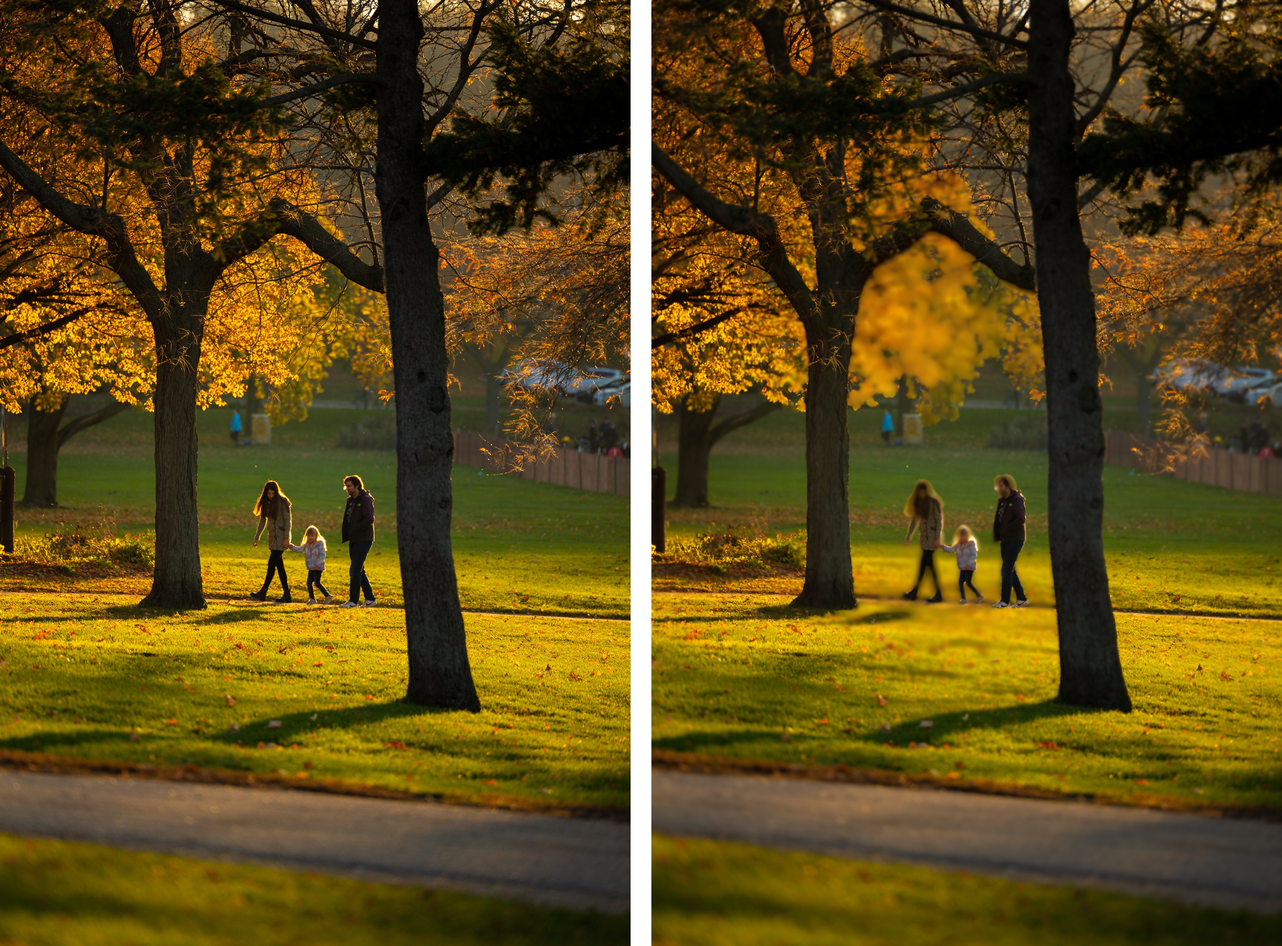
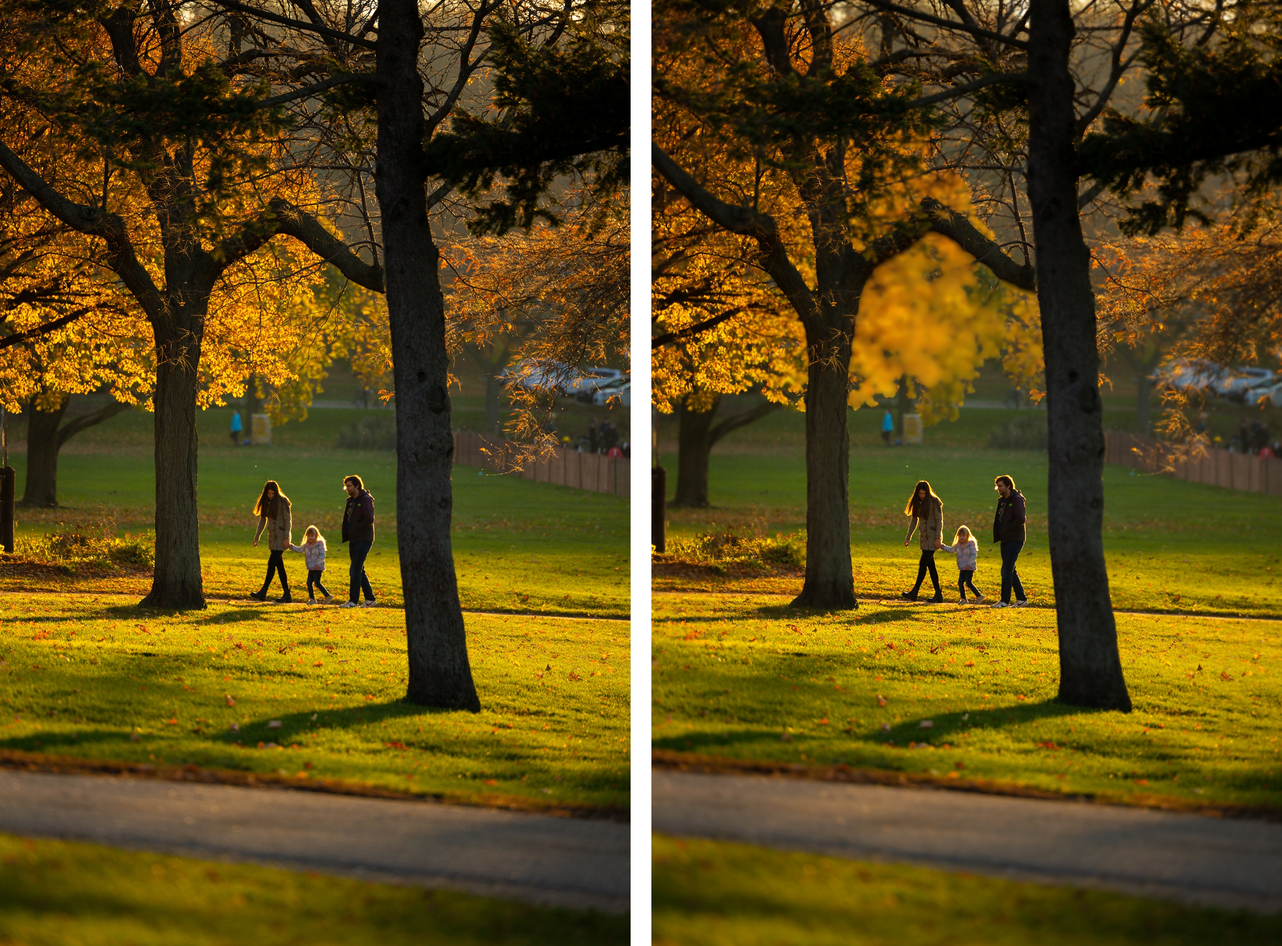
auto subject protection

Changed region(s): [[0.6198, 0.5, 0.8368, 0.75], [0.7748, 0.5, 0.8058, 0.5312]]

diff --git a/CS766_Project/CS766_AutoPhoto_Webpage/index.html b/CS766_Project/CS766_AutoPhoto_Webpage/index.html
@@ -443,7 +443,7 @@
             <div class="hero-meta">
                 <div class="meta-card">
                     <strong>Team</strong>
-                    Jiapeng Zeng, Heyan Zhang, Zichen Liu
+                    Jiapeng Zeng, Heyan Zhang, Lanxi Zhang
                 </div>
                 <div class="meta-card">
                     <strong>Course</strong>

diff --git a/CS766_Project/CS766_AutoPhoto_Core/augmentation_utils.py b/CS766_Project/CS766_AutoPhoto_Core/augmentation_utils.py
@@ -183,6 +183,23 @@ def crop_array(values, crop_box):
     return values[y:y + h, x:x + w, ...]
 
 
+def _unsharp_mask(image, sigma=1.2, amount=0.45):
+    base = cv2.GaussianBlur(image, (0, 0), sigma)
+    return np.clip(image + amount * (image - base), 0.0, 1.0)
+
+
+def preserve_subject_focus(original, refocused, subject_mask):
+    """Keep the chosen subject crisp while allowing the background to stay defocused."""
+    mask = normalize_map(subject_mask)
+    mask = np.clip((mask - 0.12) / 0.50, 0.0, 1.0)
+    mask = cv2.GaussianBlur(mask.astype(np.float32), (0, 0), 9.0)
+    mask = mask[:, :, np.newaxis]
+
+    crisp_subject = _unsharp_mask(original, sigma=1.0, amount=0.35)
+    protected = refocused * (1.0 - mask) + crisp_subject * mask
+    return np.clip(protected, 0.0, 1.0)
+
+
 def apply_style_enhancement(image, subject_mask=None):
     """Lightweight subject-aware tone, color, and detail enhancement."""
     rgb8 = np.clip(image * 255.0, 0, 255).astype(np.uint8)
@@ -198,8 +215,7 @@ def apply_style_enhancement(image, subject_mask=None):
     hsv[:, :, 1] = np.clip(hsv[:, :, 1] * 1.08 + 3.0, 0, 255)
     enhanced = cv2.cvtColor(hsv.astype(np.uint8), cv2.COLOR_HSV2RGB).astype(np.float32) / 255.0
 
-    base = cv2.GaussianBlur(enhanced, (0, 0), 1.2)
-    sharpened = np.clip(enhanced + 0.45 * (enhanced - base), 0.0, 1.0)
+    sharpened = _unsharp_mask(enhanced, sigma=1.2, amount=0.45)
 
     if subject_mask is None:
         return sharpened

diff --git a/CS766_Project/CS766_AutoPhoto_Webpage/prepare_webpage_images.py b/CS766_Project/CS766_AutoPhoto_Webpage/prepare_webpage_images.py
@@ -30,6 +30,7 @@ from augmentation_utils import (
     crop_array,
     estimate_focus_distance,
     extract_subject_mask,
+    preserve_subject_focus,
 )
 from depth_utils import compute_coc, process_depth, select_focus_interactive
 from renderer import render_dof, save_image
@@ -113,7 +114,8 @@ def create_auto_assets(image, depth, output_dir, aspect, focus_distance):
         print(f"Automatic focus distance: {focus_distance:.2f}m")
 
     coc = compute_coc(depth, config.FOCAL_LENGTH, config.F_NUMBER, focus_distance, config.SENSOR_WIDTH, image.shape[1], config.MAX_BLUR_PX)
-    refocused = render_dof(image, coc, config.NUM_LAYERS, config.MAX_BLUR_PX)
+    refocused_raw = render_dof(image, coc, config.NUM_LAYERS, config.MAX_BLUR_PX)
+    refocused = preserve_subject_focus(image, refocused_raw, subject_mask)
 
     crop_box = compute_crop_box(image.shape, subject_mask, subject_bbox, aspect)
     auto_original = crop_array(image, crop_box)

diff --git a/CS766_Project/CS766_AutoPhoto_Core/auto_augment.py b/CS766_Project/CS766_AutoPhoto_Core/auto_augment.py
@@ -20,6 +20,7 @@ from augmentation_utils import (
     estimate_focus_distance,
     extract_subject_mask,
     metadata_to_json,
+    preserve_subject_focus,
 )
 from depth_utils import compute_coc, process_depth
 from renderer import render_dof, save_image
@@ -70,7 +71,8 @@ def run_auto_augment(image_path, output_dir, aspect, skip_refocus, skip_enhance)
             width,
             config.MAX_BLUR_PX,
         )
-        emphasized = render_dof(image, coc, config.NUM_LAYERS, config.MAX_BLUR_PX)
+        refocused = render_dof(image, coc, config.NUM_LAYERS, config.MAX_BLUR_PX)
+        emphasized = preserve_subject_focus(image, refocused, subject_mask)
 
     crop_box = compute_crop_box(image.shape, subject_mask, subject_bbox, aspect)
     cropped_result = crop_array(emphasized, crop_box)
